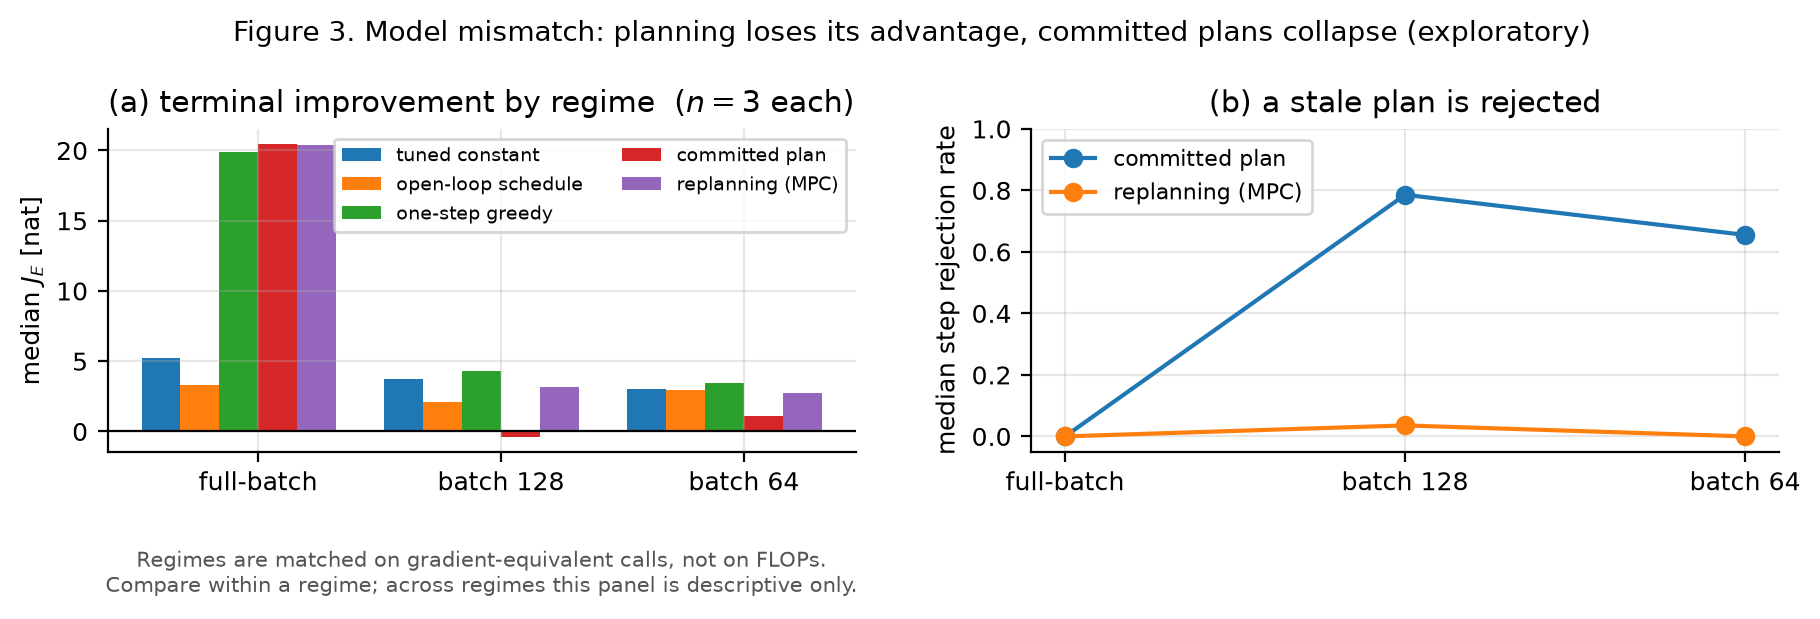
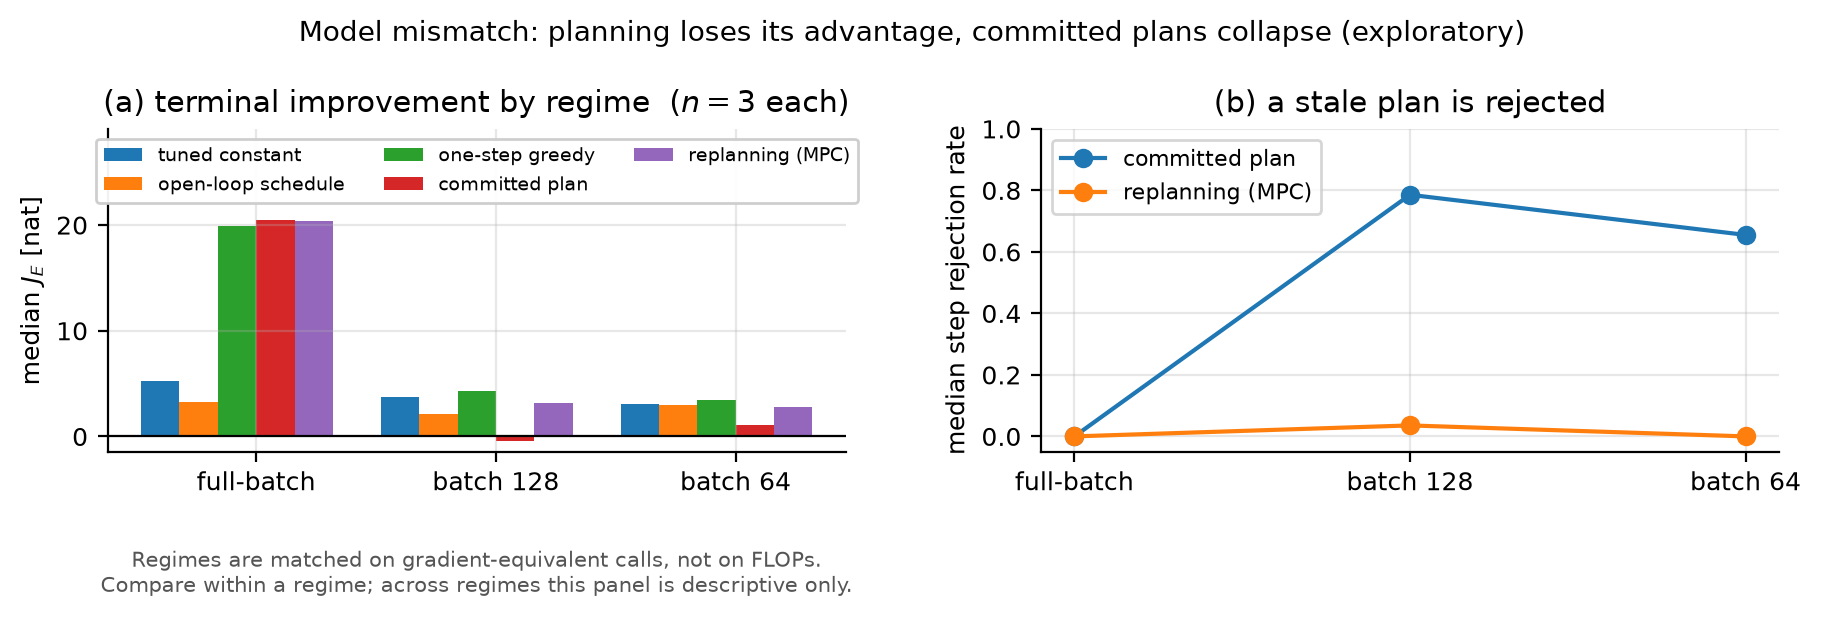
figures: raw 에서 4개 재생성. 그림 내 번호 제거 반영, 라벨 가독성 결함 3개 수정
PNG 재생성
  이전 커밋이 make_figures.py 에서 "Figure N." 하드코딩을 제거했으나 PNG 는
  구버전이 커밋돼 있었다. raw 가 있는 환경에서 4개 모두 재생성했다.
  제거된 것 (figure1)
    suptitle 의 "Figure 1." 접두
    suptitle 의 "see Figure 2 for the decomposition"
    하단 주석의 "see Figure 2"
  번호는 LaTeX 가 매긴다. 상호 참조는 이름으로 가리킨다.

레이아웃 결함 수정
  figure1 (b)  값 라벨이 막대 끝에 있어 오차막대 whisker 가 숫자를 관통했다.
               CI 상한 바깥으로 옮기고 xlim 여백을 확보했다
  figure2 (a)  같은 문제. 네 라벨 전부 관통당했다. CI 상한 위로 옮겼다
  figure3 (a)  legend 박스가 full-batch 막대를 덮었다. regime 간 막대 높이가
               20배 차이라 기본 ylim 으로는 자리가 없다. 여백 확보 + ncols=3

  **수치 경로는 건드리지 않았다.** median_of 와 compare_paired_delta 호출은
  그대로다. 변경은 text 좌표와 축 한계뿐이다.

검증
  같은 코드로 두 번 생성해 4개 모두 SHA-256 일치. 그림 생성이 결정론적이다
  pytest 460 passed / ruff clean
  check_claims 통과 / check_latex 통과 / sanitize --check 통과
  make_report, make_tables, make_manifest 재생성 시 무변화 (drift 없음)

미완
  이 환경에 TeX 배포가 없어 PDF 는 빌드하지 않았다.
  PDF 컴파일 환경에서 4-pass 재빌드가 필요하다

diff --git a/scripts/make_figures.py b/scripts/make_figures.py
@@ -134,9 +134,14 @@ def figure1(raw_dir: Path, out: Path) -> None:
     axes[1].axvline(0.0, color="black", lw=0.8)
     axes[1].set_xlabel("paired $\\Delta$ vs tuned constant [nat]")
     axes[1].set_title("(b) paired improvement, 95% CI, $n=40$")
+    # 값 라벨을 막대 끝이 아니라 **CI 상한 바깥**에 둔다. 막대 끝에 두면 오차막대
+    # whisker 가 숫자를 관통해 읽을 수 없다.
+    upper = [d + h for d, h in zip(deltas, his, strict=True)]
+    pad = max(upper) * 0.03
+    axes[1].set_xlim(right=max(upper) + pad * 6.0)
     for i, v in enumerate(deltas):
         if i:
-            axes[1].text(v + 0.04, i, f"{v:+.2f}", va="center", fontsize=8)
+            axes[1].text(upper[i] + pad, i, f"{v:+.2f}", va="center", fontsize=8)
 
     # **막대를 서로 빼서 읽으면 안 된다.** 쌍별 차이의 median 은 선형이 아니다.
     # 실측: median(committed−constant)=+2.09, median(replanning−constant)=+1.69 인데
@@ -208,8 +213,12 @@ def figure2(raw_dir: Path, out: Path) -> None:
     axes[0].axhline(0.0, color="black", lw=0.8)
     axes[0].set_ylabel("paired $\\Delta$ [nat]")
     axes[0].set_title("(a) where the improvement comes from")
+    # 라벨을 CI 상한 위에 둔다. 막대 높이에 두면 whisker 가 숫자를 관통한다.
+    upper = [m + h for m, h in zip(meds, his, strict=True)]
+    pad = max(upper) * 0.04
+    axes[0].set_ylim(top=max(upper) + pad * 3.0)
     for i, v in enumerate(meds):
-        axes[0].text(i, v + 0.05, f"{v:+.3f}", ha="center", fontsize=8)
+        axes[0].text(i, upper[i] + pad * 0.5, f"{v:+.3f}", ha="center", fontsize=8)
 
     axes[0].text(
         0.5,
@@ -284,7 +293,11 @@ def figure3(raw_dir: Path, out: Path) -> None:
     axes[0].axhline(0.0, color="black", lw=0.8)
     axes[0].set_ylabel("median $J_E$ [nat]")
     axes[0].set_title("(a) terminal improvement by regime  ($n=3$ each)")
-    axes[0].legend(fontsize=7, ncols=2)
+    # legend 가 full-batch 막대를 덮지 않도록 위쪽 여백을 확보한다. 막대 높이가
+    # regime 간 20배 차이라 기본 ylim 으로는 legend 자리가 없다.
+    tallest = max(v for vals in values.values() for v in vals)
+    axes[0].set_ylim(top=tallest * 1.42)
+    axes[0].legend(fontsize=7, ncols=3, loc="upper center", framealpha=0.95)
     # GE 는 regime 내부에서만 compute-matched 다 (draft §2.2). regime 간 막대 높이를
     # FLOP 비교로 읽으면 안 된다.
     axes[0].text(
